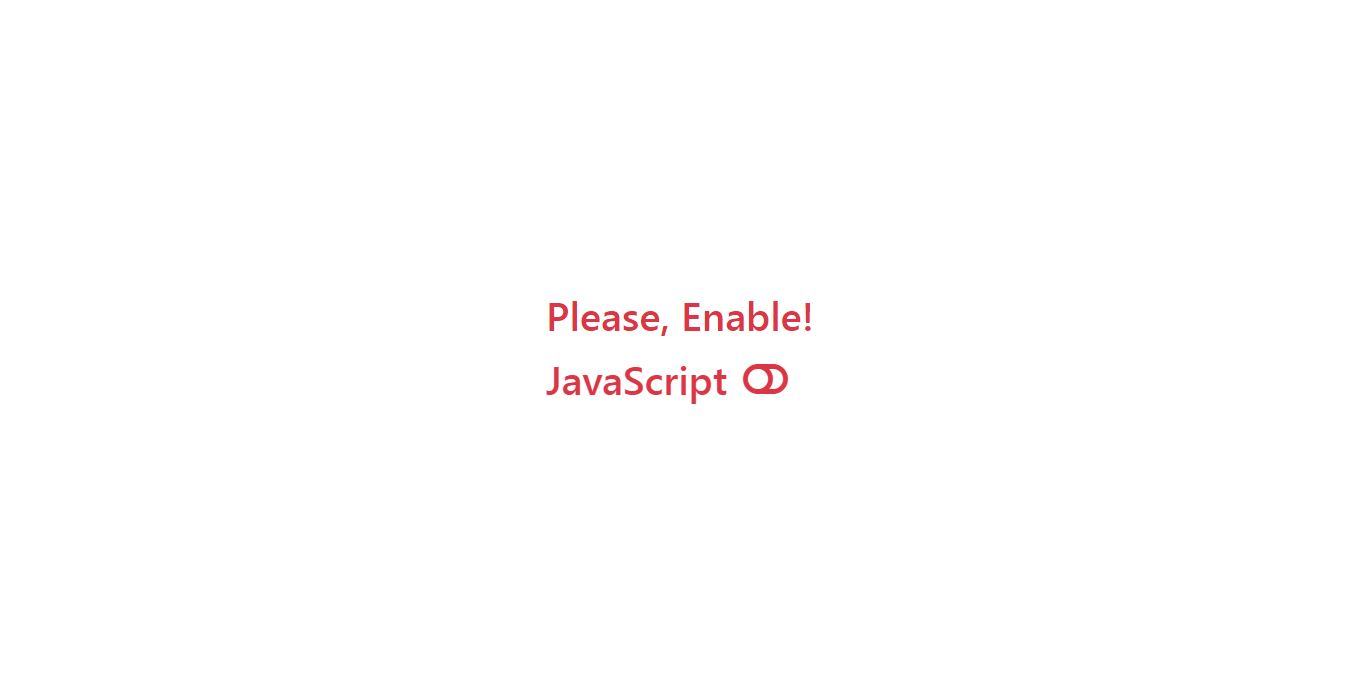
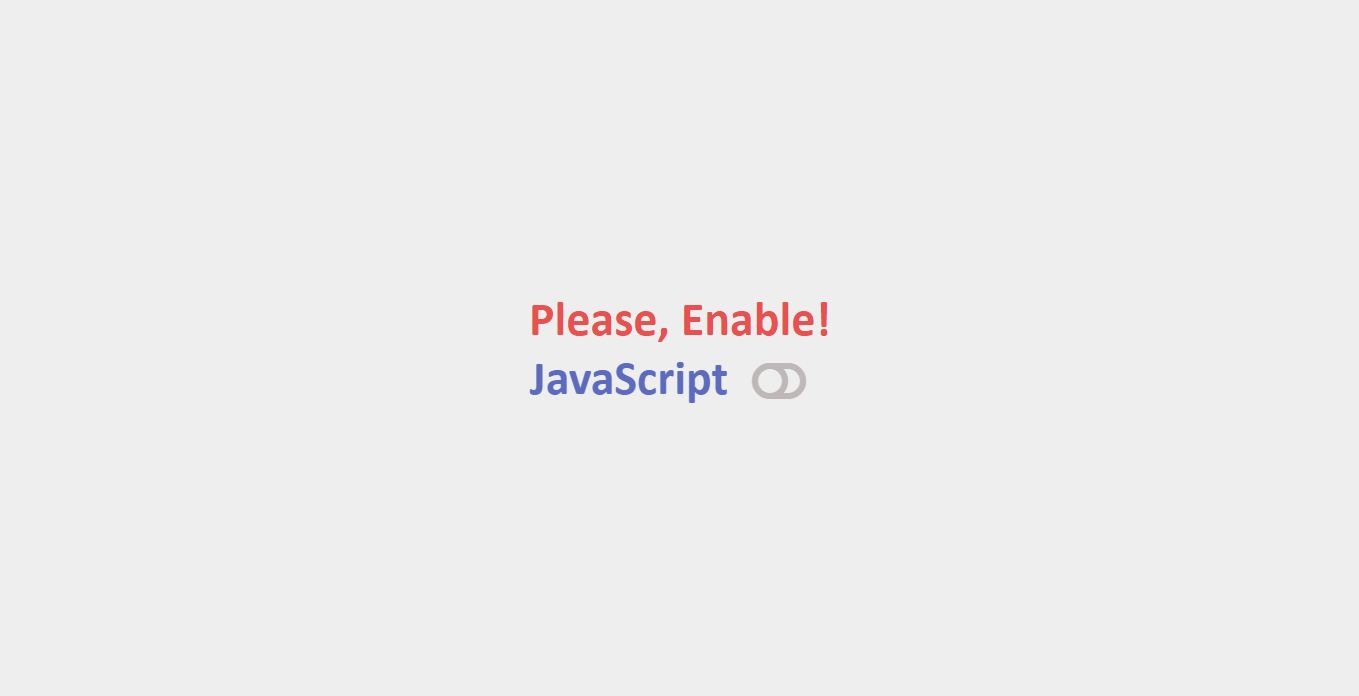
Changes in enable javascript page

Changed region(s): [[0.3709, 0.423, 0.6181, 0.4835], [0.3709, 0.5137, 0.6181, 0.5741]]

diff --git a/pages-and-themes/enable-javascript-page/main.css b/pages-and-themes/enable-javascript-page/main.css
@@ -10,60 +10,112 @@
 
 */
 
-/* message container */
-.message-container {	
-	z-index: 10000;
+/* Reset SCSS */
+*, *::before, *::after {
+  margin: 0;
+  padding: 0;
+  box-sizing: border-box;
 }
 
-/* switch icon animation */
-.switch-icon {
-	font-family: 'Font Awesome 5 Free';
+/* Color Variables */
+.light-red {
+  color: #E95050;
+}
+
+.blue {
+  color: #5C6BC0;
+}
+
+.silver {
+  color: #BDBDBD;
+}
+
+/* Background Color Variables */
+.bg-light-gray {
+  background-color: #EEEEEE;
+}
+
+/*<<<<< No Script Notice >>>>>*/
+.no-script-notice {
+  width: 100vw;
+  height: 100vh;
+  z-index: 10000;
+  overflow: hidden;
+  font-family: "Calibri", sans-serif;
+}
+.no-script-notice .notice {
+  max-width: 80%;
+  height: auto;
+  padding: 2rem 1rem;
+  position: absolute;
+  top: 50%;
+  left: 50%;
+  translate: -50% -50%;
+  display: flex;
+  flex-direction: column;
+  align-items: flex-start;
+  column-gap: 3rem;
+  font-size: 3rem;
+}
+.no-script-notice .notice .content {
+  width: 100%;
+  text-align: center;
+}
+.no-script-notice .notice .content-icon-group {
+  width: 100%;
+  display: flex;
+  justify-content: center;
+  align-items: flex-end;
+}
+.no-script-notice .notice .content-icon-group .switch-icon {
+  font-family: "Font Awesome 5 Free";
   font-weight: 900;
-  font-style: normal;	
+  font-style: normal;
+  margin: 0 1.5rem;
   animation: vibrateAnimation 2s ease infinite 0.2s;
 }
-
-/* toggle icon from fontawesome */
-.switch-icon::before {
-	content: "\f205";
-	animation: switchAnimation 2s ease both infinite;
+.no-script-notice .notice .content-icon-group .switch-icon::before {
+  content: "\f205";
+  font-size: 3rem;
+  animation: switchAnimation 2s ease both infinite;
 }
 
+/*<<<<< Body Content >>>>>*/
+body main .content {
+  padding: 2rem 1rem;
+  font-size: 2rem;
+}
+
+/*<<<<< Keyframes >>>>>*/
 /* vibrate animation keyframes with explicit delay on each iteration with extending empty keyframes */
 @keyframes vibrateAnimation {
-	0% {
+  0% {
     transform: translateX(0);
+    color: #E95050;
   }
-
   1% {
     transform: translateX(-5px) rotateY(-10deg);
   }
-
   3% {
     transform: translateY(5px) rotateX(5deg);
   }
-
   5% {
     transform: translateX(-3px) rotateY(-3deg);
   }
-
   7% {
     transform: translateY(2px) rotateX(2deg);
   }
-
   10% {
     transform: translateX(0);
   }
-
   100% {
-  	transform: none;
+    color: all;
+    transform: none;
   }
-
 }
-
 /* switch animation effect with fontawesome icon */
 @keyframes switchAnimation {
-	to {
-		content: "\f204";
-	}
+  to {
+    content: "\f204";
+  }
 }

diff --git a/pages-and-themes/enable-javascript-page/index.html b/pages-and-themes/enable-javascript-page/index.html
@@ -17,10 +17,6 @@
 
 	<title>Enable JavaScript Page</title>
 
-	<!-- Bootstrap CSS -->
-	<!-- <link rel="stylesheet" type="text/css" href="../../../../thirdparty/bootstrap/bootstrap.css" media="all">	 -->
-	<link rel="stylesheet" href="https://cdnjs.cloudflare.com/ajax/libs/bootstrap/5.0.2/css/bootstrap.min.css" integrity="sha512-usVBAd66/NpVNfBge19gws2j6JZinnca12rAe2l+d+QkLU9fiG02O1X8Q6hepIpr/EYKZvKx/I9WsnujJuOmBA==" crossorigin="anonymous" referrerpolicy="no-referrer" media="all" >
-
 	<!-- Fontawesome CSS -->
 	<!-- <link rel="stylesheet" type="text/css" href="../../../../thirdparty/fontawesome/css/all.css" media="all"> -->
 	<link rel="stylesheet" href="https://cdnjs.cloudflare.com/ajax/libs/font-awesome/5.15.3/css/all.min.css" integrity="sha512-iBBXm8fW90+nuLcSKlbmrPcLa0OT92xO1BIsZ+ywDWZCvqsWgccV3gFoRBv0z+8dLJgyAHIhR35VZc2oM/gI1w==" crossorigin="anonymous" referrerpolicy="no-referrer" media="all" >	
@@ -32,24 +28,24 @@
 	<!-- Custom CSS -->
 	<link rel="stylesheet" type="text/css" href="./main.css" media="all">
 </head>
-<body class="overflow-hidden">
+<body>
 
+<!-- No Script Notice -->
 <noscript>
-	<!-- Message -->
-	<div class="message-container vh-100 vw-100">
-		<div class="position-absolute top-50 start-50 translate-middle d-flex flex-column align-items-start gap-3 h1">
-			<div class="d-flex flex-column text-start">
-				<span class="text-danger animate__animated animate__flash">Please, Enable!</span>			
-			</div>
-			<div class="d-flex text-start text-danger animate__animated animate__fadeIn animate__delay-1s">
-				<span>JavaScript</span>
-				<span class="ps-3 switch-icon"></span>
-			</div>		
+	<section class="no-script-notice bg-light-gray">
+		<div class="notice">				
+			<h4 class="content light-red animate__animated animate__flash">Please, Enable!</h4>
+			<h4 class="content-icon-group animate__animated animate__fadeIn animate__delay-1s">
+				<span class="blue">JavaScript</span>
+				<span class="ps-3 switch-icon silver"></span>
+			</h4>		
 		</div>
-	</div>
+	</section>
 </noscript>
 
-<h1 class="text-primary p-5">Disable JavaScript Permission to see the warning message.</h1>
+<main>
+<h3 class="blue content">Disable JavaScript Permission to see the notice message.</h3>
+</main>
 
 </body>
 </html>

diff --git a/pages-and-themes/enable-javascript-page/README.md b/pages-and-themes/enable-javascript-page/README.md
@@ -1,6 +1,6 @@
 # Enable JavaScript Page:
 A simple and animated warning section for no script permission with responsive design. 
-It is made with HTML, AnimateCSS, Font Awesome Icons and Bootstrap.
+It is made with HTML, CSS, Font Awesome Icons and some animation with AnimateCSS.
 
 ### Screenshots:
 Here are some screenshots of the project:
